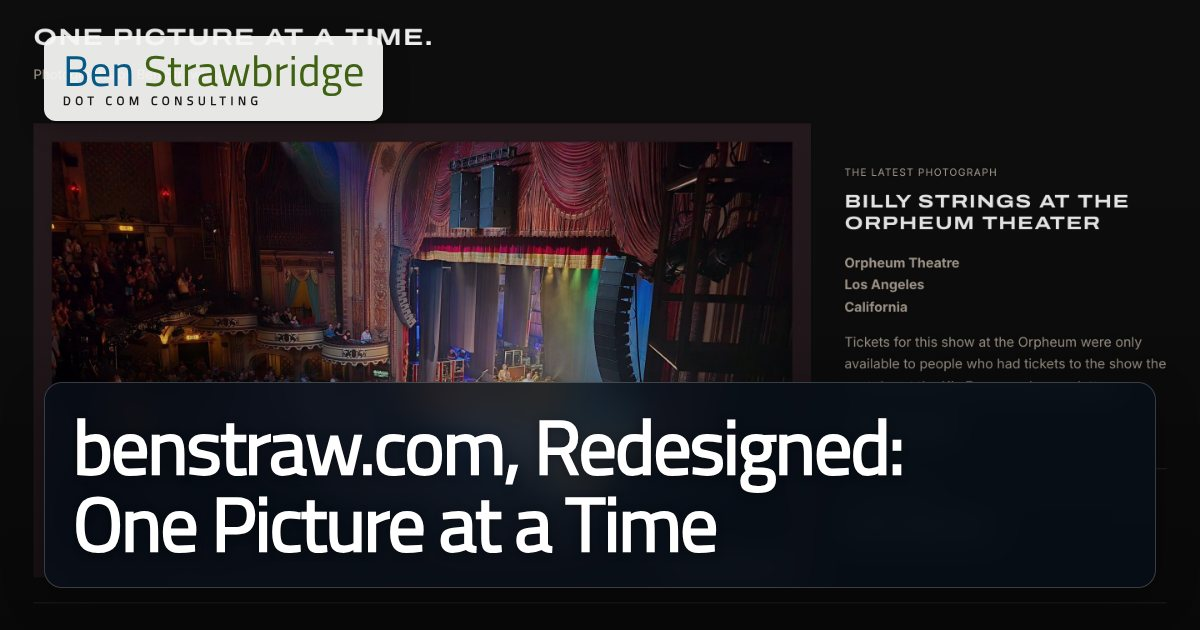
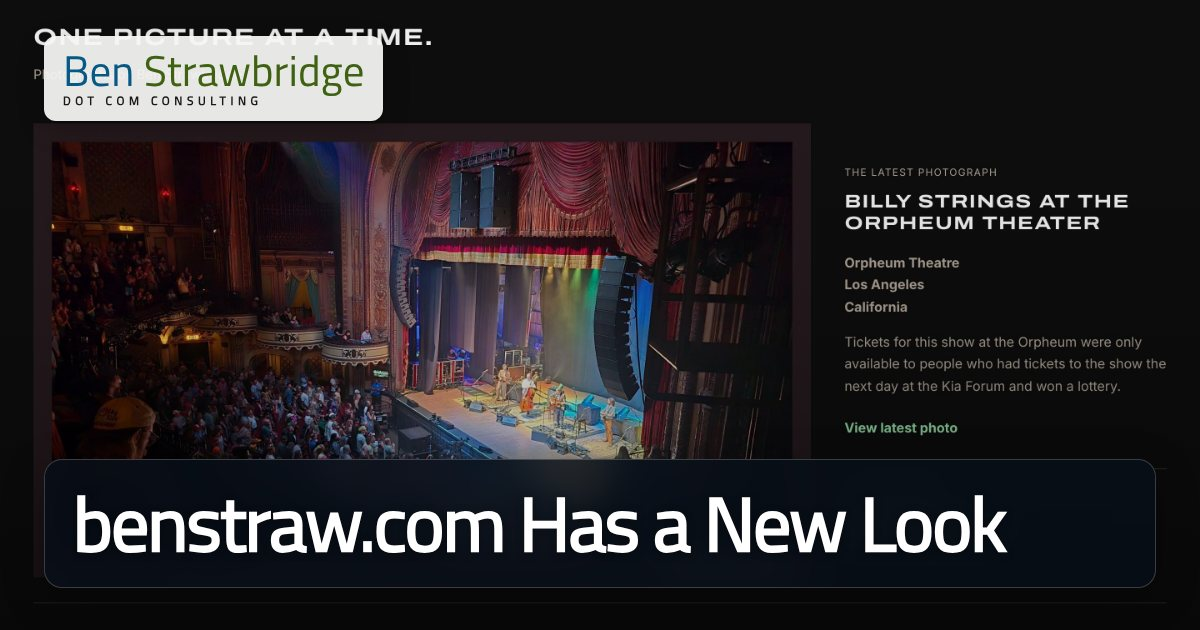
Trim the benstraw.com post to a short announcement
Retitle it "benstraw.com Has a New Look", cut the body to two lines and
one screenshot, drop the mobile capture, and regenerate the OG card.
Verified with npm run cf:build: title renders, one <h1>.

Claude-Session: https://claude.ai/code/session_013bVqEH5jMYnB9qtfTLW7dV

Changed region(s): [[0.0308, 0.6032, 0.8325, 0.8746], [0.7092, 0.6032, 0.9558, 0.6333]]

diff --git a/content/posts/benstraw-com-redesign/index.md b/content/posts/benstraw-com-redesign/index.md
@@ -1,9 +1,9 @@
 +++
-title = 'benstraw.com, Redesigned: One Picture at a Time'
+title = 'benstraw.com Has a New Look'
 date = 2026-11-03T08:00:00-08:00
 hideAsideBar = true
-description = "My photography site benstraw.com has a new look: a dark, photo-first home page, one page per photograph, collections and places, and a 96+ Lighthouse score."
-summary = "My photography site, benstraw.com, has a new look. It's darker, quieter, and built around one idea: every photograph gets its own page."
+description = "My photography site benstraw.com has a new look: a dark, photo-first home page that opens on the latest photograph, with collections, places and a journal."
+summary = "My photography site, benstraw.com, has a new look. Come see it, one picture at a time."
 homeFeatureIcon = "fa-solid fa-camera"
 cardType = "-image"
 cardImage = "benstraw-com-desktop.jpg"
@@ -17,40 +17,10 @@ tags = [
 ]
 +++
 
-My photography site, [benstraw.com](https://www.benstraw.com/), has a new look. It's darker, quieter, and built around one idea: every photograph gets its own page.
+My photography site, [benstraw.com](https://www.benstraw.com/), has a new look. Come see it, one picture at a time.
 
 <!--more-->
 
-![The benstraw.com home page on a desktop browser: the heading "One picture at a time." over a wide photo of Billy Strings on stage at the Orpheum Theatre, seen from the balcony, with the title, venue and a "View latest photo" link to the right](benstraw-com-desktop.jpg)
+![The benstraw.com home page: the heading "One picture at a time." over a wide photo of Billy Strings on stage at the Orpheum Theatre, seen from the balcony](benstraw-com-desktop.jpg)
 
-## What's on the home page
-
-The home page leads with the latest photograph. Right now that's Billy Strings at the Orpheum Theatre in downtown Los Angeles, a show you could only get into if you already had tickets for the next night at the Kia Forum and won a lottery. Below it are Selected Work, for anyone who wants the short version, and four collections for anyone who wants to wander:
-
-| Collection | What's in it |
-| --- | --- |
-| Land & Light | Wide open places, changing skies, and the light that makes me stop |
-| Small Discoveries | Mushrooms, birds, plants, and small things worth a closer look |
-| On the Street | Buildings, signs, public art, and the things a city leaves in plain sight |
-| Along the Way | Dogs, sketchbooks, roadside stops, and the rest of the day |
-
-Places, Topics, All Photos and a Journal hold the full archive.
-
-## One gallery, one photograph
-
-The site started from the Galleries Deluxe theme for Hugo. I reworked it so each gallery holds a single photograph. That sounds like a step backwards for a gallery theme, but it means every picture can carry its own date, topics, places and, sometimes, a story, and every picture has a URL I can send to someone.
-
-## Fast without trying to look fast
-
-![The benstraw.com home page on a phone: the menu button and wordmark across the top, then the heading, the Orpheum photo full width, and the latest photograph's title and venue stacked below](benstraw-com-mobile.jpg)
-
-The parts I'm proudest of are the ones you shouldn't notice:
-
-- **The layout never jumps.** The grids use Pig.js justified rows, but Hugo works out each row's geometry at build time and ships it as CSS, so cumulative layout shift is zero. Each tile shows a gradient of its photo's dominant colors until the image arrives.
-- **It works without JavaScript.** Every photo is a real link with a `<picture>` element (watermarked WebP and JPEG, with `srcset` and `sizes` per tile) in the HTML.
-- **Every published image is watermarked at build time**, so the unwatermarked originals never leave my machine.
-- **It's measured.** Three-run Lighthouse medians score 96 or higher on every page type, mobile and desktop, across performance, accessibility, best practices and SEO.
-
-Like this site, it's served by Cloudflare and rebuilt every time I add a photo. The [About page](https://www.benstraw.com/about/) has the rest of the details.
-
-benstraw.com is built by my studio, [arts-link](https://arts-link.com/). We make websites for artists, musicians and makers, so if you'd like one like it, [get in touch](/consulting/).
+It opens on the latest photograph and branches out into collections, places and a journal. [Take a look](https://www.benstraw.com/).
